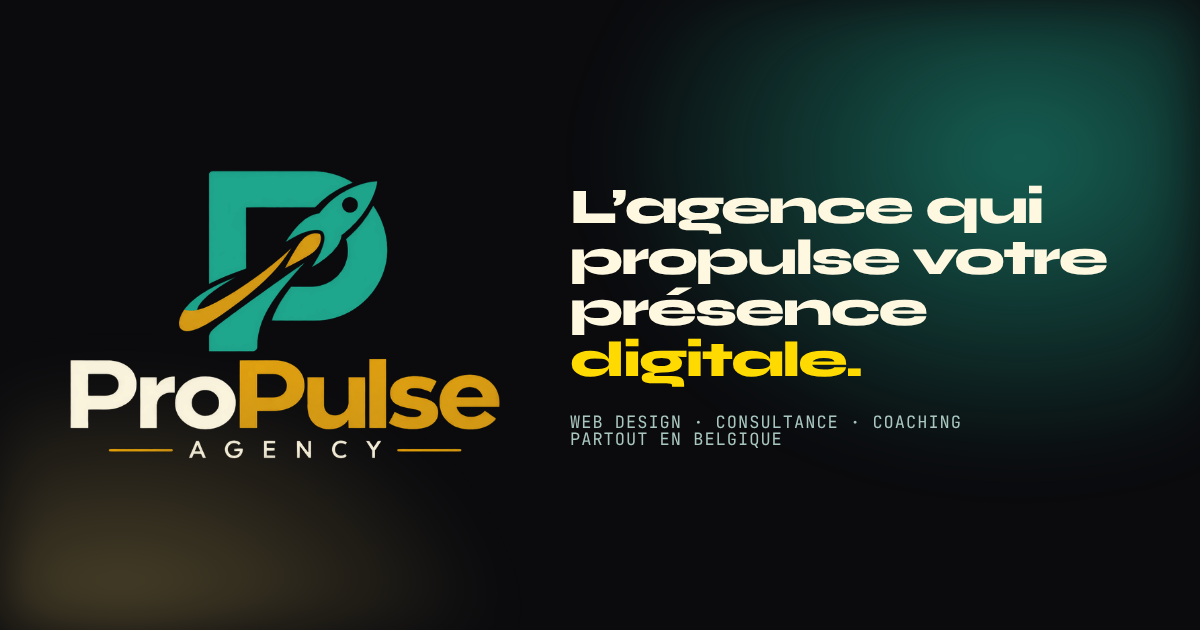
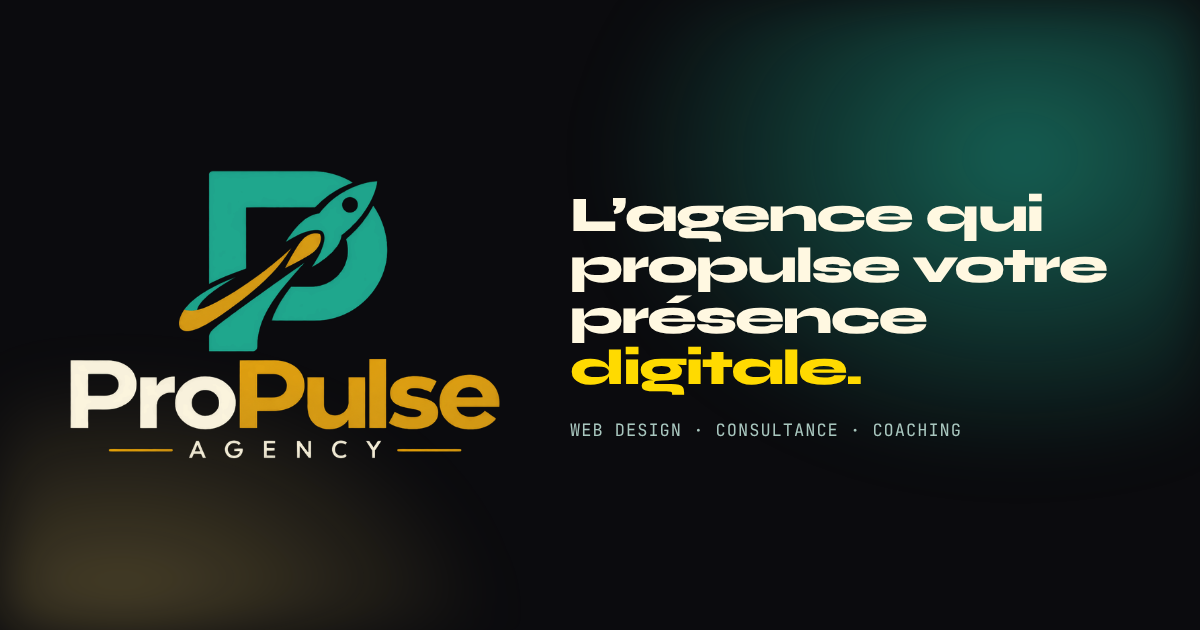
Retrait de la mention « partout en Belgique »

Changed region(s): [[0.4625, 0.3016, 0.925, 0.6333], [0.4625, 0.6635, 0.8017, 0.7238]]

diff --git a/Propulse-Agency-Test/src/pages/index.html b/Propulse-Agency-Test/src/pages/index.html
@@ -1,9 +1,9 @@
-<!--meta {"id":"home","path":"/","title":"ProPulse Agency — Web Design, Consultance & Coaching Digital","description":"ProPulse Agency accompagne les entreprises partout en Belgique avec des solutions digitales sur mesure : création de sites web, consultance digitale et coaching.","bodyClass":"is-home"}-->
+<!--meta {"id":"home","path":"/","title":"ProPulse Agency — Web Design, Consultance & Coaching Digital","description":"ProPulse Agency accompagne les entreprises avec des solutions digitales sur mesure : création de sites web, consultance digitale et coaching.","bodyClass":"is-home"}-->
     <section class="hero" id="top" aria-labelledby="hero-title">
       <canvas class="hero__gl" aria-hidden="true"></canvas>
       <div class="hero__fallback" aria-hidden="true"></div>
       <div class="hero__content container">
-        <p class="eyebrow mono hero__eyebrow"><span class="dot"></span> Solutions digitales · Partout en Belgique</p>
+        <p class="eyebrow mono hero__eyebrow"><span class="dot"></span> Solutions digitales sur mesure</p>
         <h1 id="hero-title" class="hero__title">
           <span class="line"><span>L'agence qui</span> <span class="hero__pill" aria-hidden="true"><span class="hero__pill-inner"></span></span></span>
           <span class="line"><span class="hero__outline">propulse</span> <span>votre</span></span>
@@ -29,7 +29,7 @@
 
     <div class="marquee" data-marquee aria-hidden="true">
       <div class="marquee__track">
-        <span>Web design</span><b>✦</b><span>Consultance digitale</span><b>✦</b><span>Coaching</span><b>✦</b><span>Stratégie</span><b>✦</b><span>Sur mesure</span><b>✦</b><span>Partout en Belgique</span><b>✦</b>
+        <span>Web design</span><b>✦</b><span>Consultance digitale</span><b>✦</b><span>Coaching</span><b>✦</b><span>Stratégie</span><b>✦</b><span>Sur mesure</span><b>✦</b>
       </div>
     </div>
 
@@ -196,7 +196,7 @@
         </details>
         <details class="faq__item">
           <summary><span>Où intervenez-vous ?</span><i aria-hidden="true"></i></summary>
-          <div class="faq__body"><p>Partout en Belgique. On travaille avec des indépendants, PME et associations dans tout le pays, à distance ou sur place selon vos besoins.</p></div>
+          <div class="faq__body"><p>On travaille avec des indépendants, PME et associations, à distance ou sur place selon vos besoins.</p></div>
         </details>
         <details class="faq__item">
           <summary><span>Pourrai-je gérer mon site moi-même ?</span><i aria-hidden="true"></i></summary>
@@ -224,7 +224,7 @@
             <p class="contact__intro">Que vous ayez besoin d'un site, d'un regard extérieur sur votre stratégie digitale ou d'un coaching pour votre équipe, on vous répond sous peu.</p>
             <dl class="contact__info">
               <div><dt class="mono">E-mail</dt><dd><a href="mailto:{{site.contact.email}}" class="link-line">{{site.contact.email}}</a></dd></div>
-              <div><dt class="mono">Zone</dt><dd>{{site.contact.zone}}, à distance ou sur place</dd></div>
+              <div><dt class="mono">Rendez-vous</dt><dd>À distance ou sur place</dd></div>
             </dl>
           </aside>
 

diff --git a/Propulse-Agency-Test/src/partials/layout-bottom.html b/Propulse-Agency-Test/src/partials/layout-bottom.html
@@ -6,7 +6,7 @@
         <a class="logo logo--footer" href="/#top" aria-label="{{site.name}} — accueil">
           <img src="/assets/img/logo-full.png" alt="ProPulse Agency" width="240" height="161" loading="lazy">
         </a>
-        <p class="footer__baseline">{{site.slogan}}<br>Web design, consultance &amp; coaching digital — partout en Belgique.</p>
+        <p class="footer__baseline">{{site.slogan}}<br>Web design, consultance &amp; coaching digital.</p>
       </div>
       <div class="footer__col">
         <p class="mono footer__head">Navigation</p>
@@ -21,7 +21,6 @@
         <p class="mono footer__head">Contact</p>
         <ul>
           <li><a href="mailto:{{site.contact.email}}" class="link-line">{{site.contact.email}}</a></li>
-          <li>{{site.contact.zone}}</li>
           <li>À distance ou sur place</li>
         </ul>
         {{social.footer}}

diff --git a/Propulse-Agency-Test/src/partials/layout-top.html b/Propulse-Agency-Test/src/partials/layout-top.html
@@ -80,8 +80,8 @@
       <div class="menu__aside">
         <p class="mono">Écrivez-nous</p>
         <a href="mailto:{{site.contact.email}}" class="menu__mail">{{site.contact.email}}</a>
-        <p class="mono">Zone d'intervention</p>
-        <p class="menu__zone">{{site.contact.zone}}, à distance ou sur place</p>
+        <p class="mono">Rendez-vous</p>
+        <p class="menu__zone">À distance ou sur place</p>
         {{social.menu}}
       </div>
     </div>
